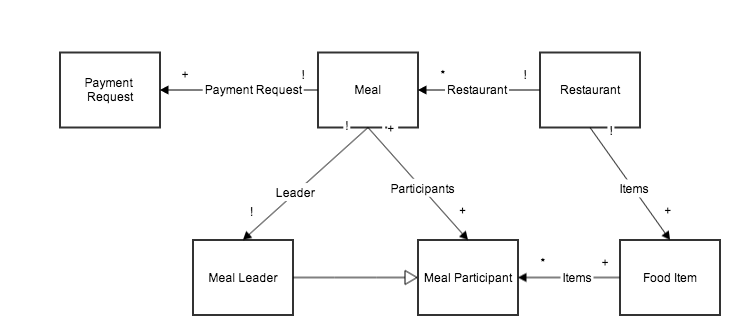
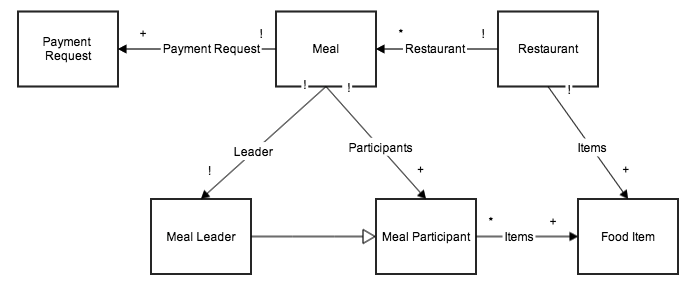
added workflow to markdown

diff --git a/docs/phase_1_design.md b/docs/phase_1_design.md
@@ -13,7 +13,7 @@ Purpose
 
 Problem: A group of friends go to a restaurant and get a single bill. Each wants to pay for their meal, calculation can be difficult. People know what they ordered but they don’t know how much it cost and don’t want to factor in multiple items and tax. 
 
-Solution: Our system will allow a user to choose a restaurant and a group of people. The user will then be able to assign different menu items to each person in the group. The app will then calculate the amount that each person owes and send an invoice to that persons profile/email. 
+Solution: MealSplit will allow a user to choose a restaurant and a group of people. The user will then be able to assign different menu items to each person in the group. The app will then calculate the amount that each person owes and send an invoice to that person’s profile/email. 
 
 
 Motivation for Development 
@@ -34,18 +34,18 @@ Motivation for Development
 The current solutions still require each person to calculate how much they spent based on their menu items. This requires every person to look at the receipt or remember the cost from the menu. 
 
 ###Description of system to be build
-MealSplit will make keeping track of costs after a shared meal easier.
+MealSplit will make keeping track of IOUs after a shared meal easier.
 
 ####MVP
 Our MVP will be an app for all meal-participants to use. The meal-payer will load our app, enter a restaurant name, and meal-price for each person. MealSplit will then email the meal-payer a summary of the meal and the meal-participants their individual charges, with tax and tip precalculated. 
 
 ####Full-Feature App
-MealSplit’s full-feature app has many different possibilities of improvement upon the MVP. Things will definitely include:
+MealSplit’s full-feature app has many different possibilities of improvement upon the MVP. It will definitely include:
 
 + sessions for each user: users should be able to log in and out of the app and see their past transactions, completed and incomplete. 
 + a better way to pull data from a menu, either through the Locu API or by letting restaurants log in as a superuser to change the menu items 
 
-Other ideas we have considered: 
+Other ideas we might implement: 
 
 + connecting with the Square Cash or Venmo API to complete charges
 + pinging people for uncompleted charges
@@ -56,6 +56,8 @@ Context Diagram
 ---------------
 
 ![Phase 1 Context Diagram](phase_1_context_diagram.png)
+
+Our context diagram has our MealSplit app in the middle. Meal-payers comes to MealSplit and enter in the information about the meal: who was involved and what items were ordered. MealSplit pulls menu and food item information from Locu about restaurant menus and items and also allows for restaurants to enter in their menu information. This data allows for autocompletion of the user’s inputs and automatically calculates prices and taxes. After a meal is completed, MealSplit will then email the meal-payer a summary of the meal and who owes them money as well as emailing an invoice to everyone involved with the meal. 
 
 Key Concepts
 ------------
@@ -71,27 +73,49 @@ One of the benefits of MealSplit is that it does not really introduce any foreig
 + Owing money for meal
   + At each `meal` one person pays for everyone else so the other participants of the meal all owe the payer for their portion of the `meal`.
 
-### Feature Descriptions:**
+Data Model
+----------
+![Phase 1 Data Model](phase_1_data_model.png)
+
+Our data model has six different kinds of objects: payment requests, meals, restaurants, meal-payers, meal-participants, restaurants and food items. The diagram above captures their relationships but we will shortly elaborate on how each object interacts with other objects. 
+
+Each meal has one or more payment requests that correspond to participants in the meal owing the meal-payer the amount of their meal. Each payment request is tied to a unique meal. A meal also has one restaurant where the group ate. But a restaurant can have multiple meals. 
+
+A meal also includes a group of people. We represent them as a meal-payer and meal-participants. A meal-payer is the one who paid for the meal and is entering the information in on the application. The leader is looking to get payment back from the other meal-participants. Every meal has one meal-payer and a meal-payer object corresponds to exactly one meal. A meal-payer is a subset of meal-participants. There can be one or more meal-participants in every meal and a meal-participant can be involved in one meal. The meal-participant object is unique to the meal. In the future if we want to have users of the system the meal-participant will also have a user id field that will link it to a user. 
+
+A restaurant then has a list of one or more food items. Each food item only belongs to one restaurant. And then each meal-participant can have one or more food items that he or she ordered during the menu. Each food item corresponds to one or more meal-participants. 
+
+Feature Descriptions
+---------------------
 
 **Creating charges for a group:** The payer of a meal can create separate charges for anyone who participated in the meal easily  
 **Emails for group charges:** People who owe the meal-payer money receive an email detailing their meal charge  
 **Preloaded data wherever possible:** Restaurant names will be preloaded for ease of selection. Menu items and prices can be preloaded for ease of selection. Usernames/emails will also be preloaded if possible  
+**Autocompletion:** MealSplit will use autocompletion to make entering in restaurants and food items as simple as possible. When you start typing `chi` the selection for `Alfredo Chicken Pasta` will pop up and you can simply select that item.
 **View past transactions:** Users will eventually be able to see their past transactions and levels of completion of each.  
 **User accounts:** Users can log in and out to privately view their transactions
 
-### Security Concerns
+Security Concerns
+-----------------
 
-####MVP
+###MVP
 + Fake meals created and charges sent
 + Messing with restaurant/meal data
-	+ only allowing superusers to upload data or pull from Locu
+  + only allowing superusers to upload data or pull from Locu
 
-#### Full-feature App
+### Full-featured App
 + Fake meals created and charges sent 
-	+ only registered people can send requests
-	+ detection if someone is creating fake charges
-	+ only autocompletes names of friends and past transactors
+  + only registered people can send requests
+  + detection if someone is creating fake charges
+  + only autocompletes names of friends and past transactors
 + generic account security (e.g. making passwords are hashed, making sure passwords are secure enough, etc.)
-+ Messing with restaurant/meal data
-	+ only allowing superusers to upload data or pull from Locu
++ A malicious party deliberately entering fake restaurant/meal data
+  + only allowing superusers to upload data or pull from Locu
+
+
+User Interface
+--------------
+
+![Phase 1 Workflow](phase_1_workflow.png)
+
 
